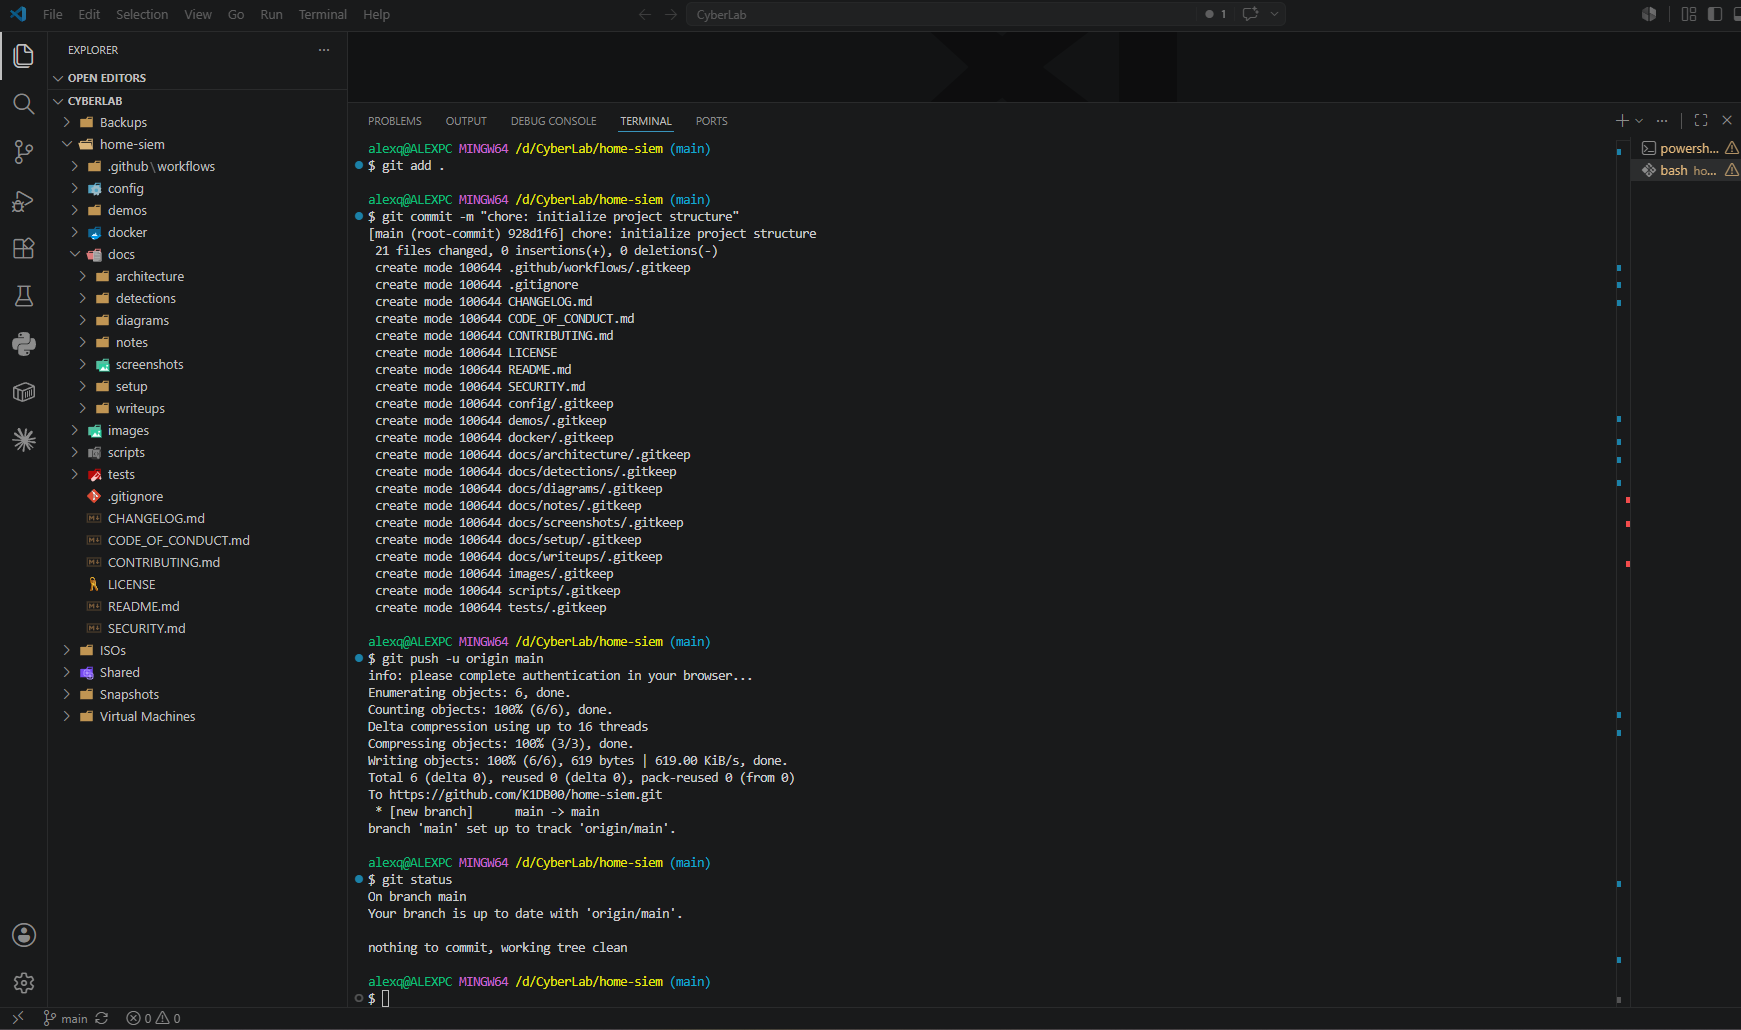
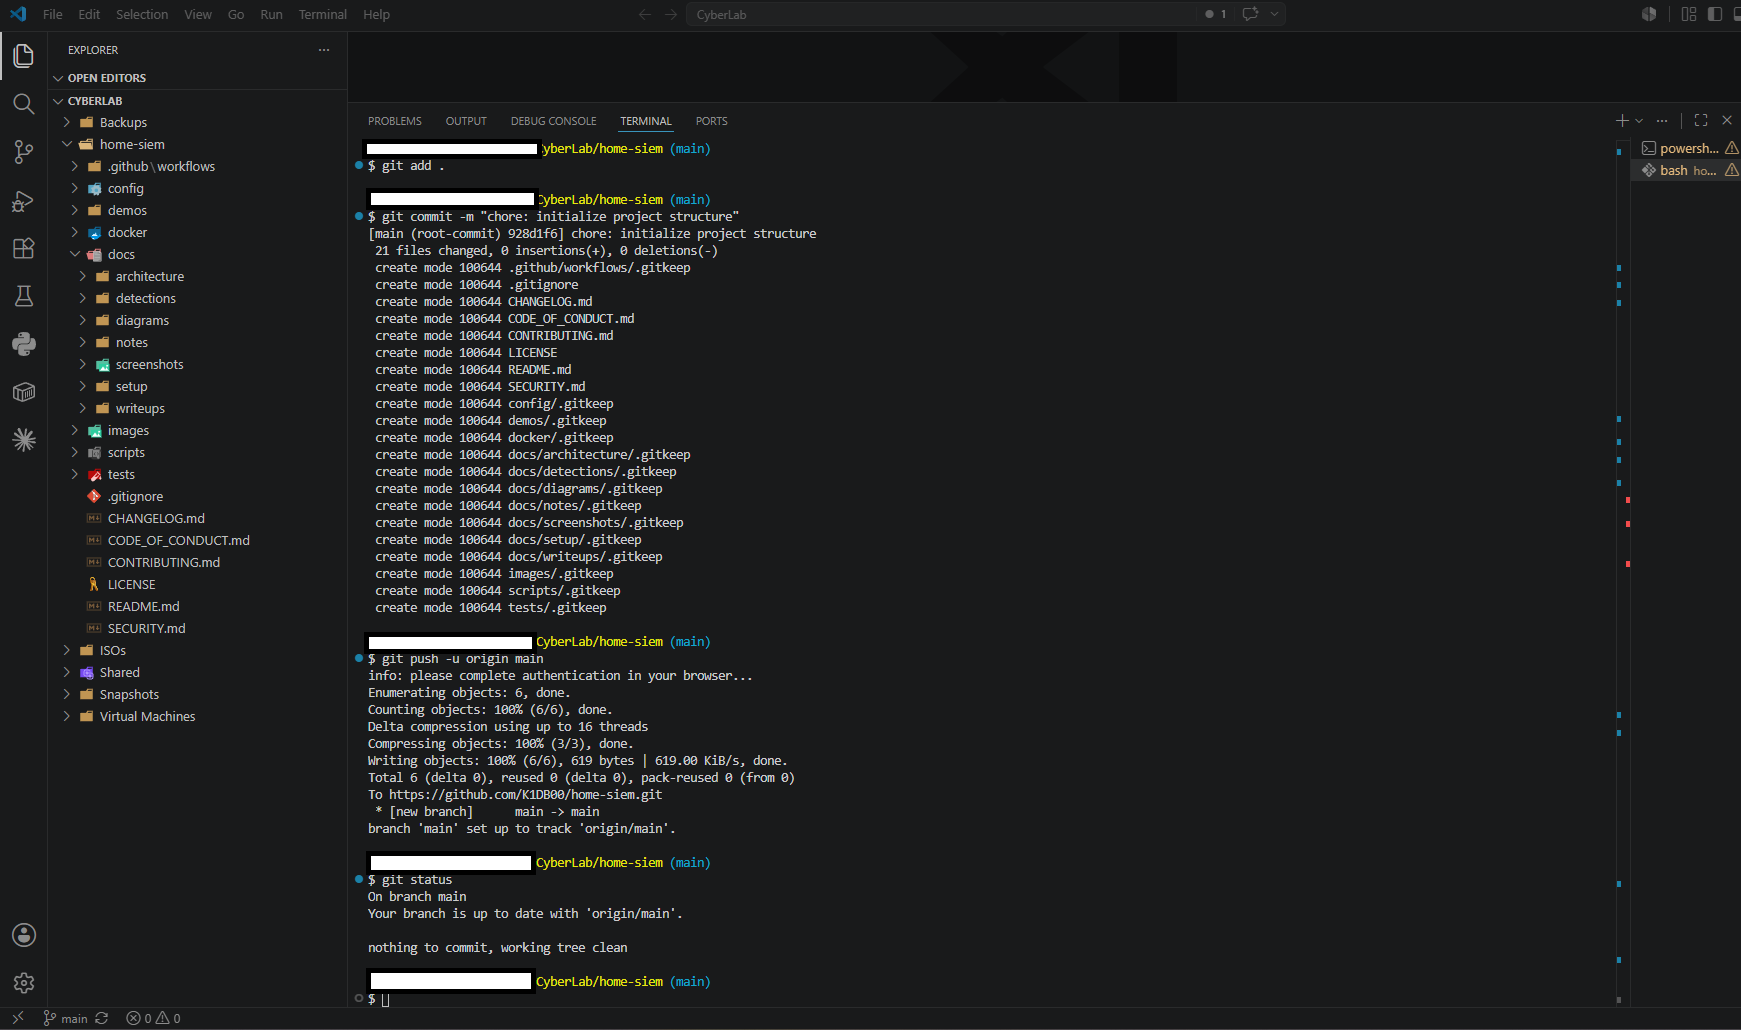
docs: define home SIEM lab overview

diff --git a/docs/architecture/01-lab-overview.md b/docs/architecture/01-lab-overview.md
@@ -1,0 +1,159 @@
+# Lab Overview
+
+## 1. Purpose
+
+Home SIEM is a self-hosted security monitoring lab built to demonstrate practical, hands-on experience with the core workflows of a Security Operations Center (SOC): log collection, centralized agent management, detection engineering, and incident investigation. The project simulates a small enterprise environment — a Windows endpoint, a Linux endpoint, and an attacker workstation — monitored end-to-end by an Elastic-based SIEM stack.
+
+The lab is designed as a portfolio artifact: every component, configuration decision, and detection rule is documented so that the reasoning behind the architecture is as visible as the architecture itself.
+
+## 2. Project Objectives
+
+- Stand up a working Elastic Stack (Elasticsearch, Kibana, Fleet Server) as the central log aggregation and analysis platform.
+- Onboard and centrally manage endpoint telemetry from both Windows and Linux hosts using Fleet-managed Elastic Agents.
+- Collect and normalize high-value security telemetry: Sysmon, Windows Event Logs, PowerShell logging, and Elastic Defend on Windows; auditd, authentication logs, and system/process logs on Linux.
+- Build custom detection rules mapped to real adversary behavior.
+- Investigate and document at least one simulated incident from initial alert through timeline reconstruction, scope determination, and final analyst conclusion.
+- Produce documentation and a demo video suitable for sharing with prospective employers or the security community.
+
+## 3. Scope
+
+This lab covers a single-site, single-analyst home lab deployment. It focuses on:
+
+- Endpoint telemetry collection and centralized fleet management.
+- Detection engineering and alerting within the Elastic Stack.
+- Manual, analyst-driven incident investigation using Kibana.
+- Documentation of architecture, detections, and findings.
+
+It does not cover multi-site deployments, high-availability clustering, or production-scale data retention. See [Section 9 — Out of Scope](#9-out-of-scope) for explicit exclusions.
+
+## 4. Core Components
+
+### Host System
+
+| Component | Detail |
+|---|---|
+| Operating System | Windows 11 |
+| CPU | AMD Ryzen 7 5700G (8 cores / 16 threads) |
+| RAM | 32 GB |
+| Virtualization | VMware Workstation Pro |
+| Containerization | Docker Desktop (WSL2 backend) |
+| Project Storage | `D:\CyberLab` |
+
+### SIEM Stack (Docker, on Windows host)
+
+- **Elasticsearch** — single-node lab cluster; primary datastore for all ingested telemetry.
+- **Kibana** — visualization, dashboarding, detection rule management, and alert triage.
+- **Fleet Server** — central control plane for enrolling, configuring, and monitoring Elastic Agents across all endpoints.
+
+### Monitored and Test Endpoints (VMware VMs)
+
+- **Windows 11 Enterprise VM** — primary monitored Windows endpoint.
+- **Ubuntu Server 24.04 LTS VM** — monitored Linux endpoint.
+- **Kali Linux VM** — controlled test/attacker workstation used to generate adversary activity for detection testing.
+
+### Networking
+
+- **VMnet1 (host-only)** — `10.10.10.0/24`, DHCP disabled (static addressing). The Windows host uses `10.10.10.1/24` on the VMware VMnet1 virtual adapter, giving the lab VMs a route to the Docker-published Elasticsearch, Kibana, and Fleet Server endpoints. Isolates internal lab traffic from the physical home network.
+- **VMnet8 (NAT)** — provides outbound internet access for OS and package updates on lab VMs.
+
+### Service Endpoints
+
+| Service | Host address | Port | Purpose |
+|---|---|---|---|
+| Kibana | `10.10.10.1` / `localhost` | 5601/TCP | Analyst interface |
+| Elasticsearch | local/internal only | 9200/TCP | Data and API access |
+| Fleet Server | `10.10.10.1` | 8220/TCP | Agent enrollment and management |
+
+Port bindings and exposed interfaces will be finalized during the Docker Compose design phase. Elasticsearch will not be exposed to the physical LAN.
+
+## 5. High-Level Architecture
+
+```
+                        ┌─────────────────────────────────────────┐
+                        │           Windows 11 Host                │
+                        │                                           │
+                        │   Docker Desktop (WSL2)                  │
+                        │   ┌───────────────────────────────────┐  │
+                        │   │  Elasticsearch (single-node)       │  │
+                        │   │  Kibana                            │  │
+                        │   │  Fleet Server                      │  │
+                        │   └───────────────────────────────────┘  │
+                        │                                           │
+                        │   VMware Workstation Pro                 │
+                        └─────────────┬─────────────────────────────┘
+                                      │
+                    VMnet1 (host-only, 10.10.10.0/24)
+                                      │
+        ┌─────────────────────┬──────┴──────────────┬─────────────────────┐
+        │                     │                      │                     │
+┌───────▼────────┐   ┌────────▼─────────┐   ┌────────▼─────────┐
+│ Windows 11      │   │ Ubuntu Server    │   │ Kali Linux        │
+│ Enterprise VM   │   │ 24.04 LTS VM     │   │ (test workstation)│
+│                 │   │                  │   │                    │
+│ Elastic Agent   │   │ Elastic Agent    │   │ (unmonitored,      │
+│  - Sysmon       │   │  - auditd        │   │  attack traffic    │
+│  - Event Logs   │   │  - auth logs     │   │  source only)      │
+│  - PowerShell   │   │  - system logs   │   │                    │
+│  - Elastic      │   │  - process       │   │                    │
+│    Defend       │   │    events        │   │                    │
+└─────────────────┘   └──────────────────┘   └────────────────────┘
+
+     Elastic Agents ── policy enrollment and management ──▶ Fleet Server
+     Elastic Agents ── security telemetry ────────────────▶ Elasticsearch
+     VMnet8 (NAT) provides outbound internet access for updates on all VMs
+```
+
+Elastic Agents on the Windows and Linux VMs enroll with Fleet Server and receive centrally managed policies. Fleet Server acts as the management control plane, while the agents send collected telemetry directly to the configured Elasticsearch output. Kibana provides dashboards, detection rule management, alert triage, and investigation workflows on top of that indexed data. The Kali Linux VM is intentionally left unmonitored — it plays the role of the adversary, generating the activity that the monitored endpoints and detection rules are meant to catch.
+
+## 6. Security and Isolation Principles
+
+- **Network isolation** — All lab VMs communicate over VMnet1, a host-only network with no bridging to the physical LAN. DHCP is disabled and addressing is static, which keeps the topology predictable and prevents accidental exposure of lab hosts to other devices on the home network.
+- **Segregation of roles** — The attacker workstation (Kali) is kept logically distinct from the monitored endpoints. It is never enrolled in Fleet, ensuring detection data reflects only the monitored hosts' telemetry. Kali's NAT adapter may be disconnected during detection tests that do not require internet access, to prevent unintended traffic leaving the lab.
+- **Controlled internet access** — VMnet8 (NAT) is used solely for patching and package updates, not as a general-purpose network for lab traffic.
+- **Centralized, auditable management** — All agent configuration changes flow through Fleet policies, giving a single, reviewable source of truth for what telemetry is being collected and how.
+- **Host/lab separation** — Attack simulations are directed exclusively at the dedicated virtual machines. The SIEM services remain on the Windows host, but only the ports required for lab operation (see [Service Endpoints](#4-core-components)) are exposed to VMnet1.
+
+## 7. Skills Demonstrated
+
+- Deployment and configuration of the Elastic Stack (Elasticsearch, Kibana, Fleet Server) via Docker.
+- Centralized endpoint management using Fleet and Elastic Agent policies.
+- Windows telemetry engineering: Sysmon configuration, Windows Event Log collection, PowerShell logging, and Elastic Defend.
+- Linux telemetry engineering: auditd rule configuration, authentication and system log collection.
+- Detection engineering: authoring custom detection rules within the Elastic Stack.
+- MITRE ATT&CK-based threat modeling and detection mapping.
+- Security dashboard design in Kibana.
+- Incident investigation and analysis methodology.
+- Virtual network design and segmentation using VMware host-only and NAT networking.
+- Infrastructure-as-code practices via Docker Compose for reproducible deployment.
+- Technical writing and security documentation.
+
+## 8. Future Expansion
+
+This lab is designed as a foundation that later projects can build on:
+
+- **Active Directory Attack and Defend Lab** — extending the environment with a domain controller to practice AD-focused attack and detection scenarios.
+- **Automated CVE Scanner** — integrating vulnerability scanning against lab endpoints, with results correlated against SIEM telemetry.
+- **SOAR Automation** — adding automated response playbooks triggered by detection rule alerts.
+- **Honeypot Dashboard** — deploying decoy services and visualizing interaction telemetry alongside existing detections.
+
+## 9. Out of Scope
+
+- Multi-node or highly available Elasticsearch clusters.
+- Cloud-hosted infrastructure or managed cloud services.
+- Production-grade data retention, backup, or disaster recovery.
+- Public-facing or internet-exposed services of any kind.
+- Compliance frameworks or formal audit processes.
+- Tools or components not explicitly listed in [Section 4 — Core Components](#4-core-components).
+
+## 10. Success Criteria
+
+The lab is considered successfully delivered when the following are in place:
+
+- [ ] Windows and Linux endpoints are enrolled and managed via Fleet.
+- [ ] Sysmon telemetry (Windows) and auditd telemetry (Linux) are flowing into Elasticsearch.
+- [ ] Five custom detection rules are authored and active in Kibana.
+- [ ] Three custom dashboards are built for monitoring and triage.
+- [ ] One simulated incident investigation is documented from initial alert through timeline reconstruction, affected assets, evidence, and analyst conclusion.
+- [ ] Detection rules are mapped to relevant MITRE ATT&CK techniques.
+- [ ] The full stack can be deployed reproducibly via Docker Compose.
+- [ ] Technical documentation and a short demo video are published alongside the project.